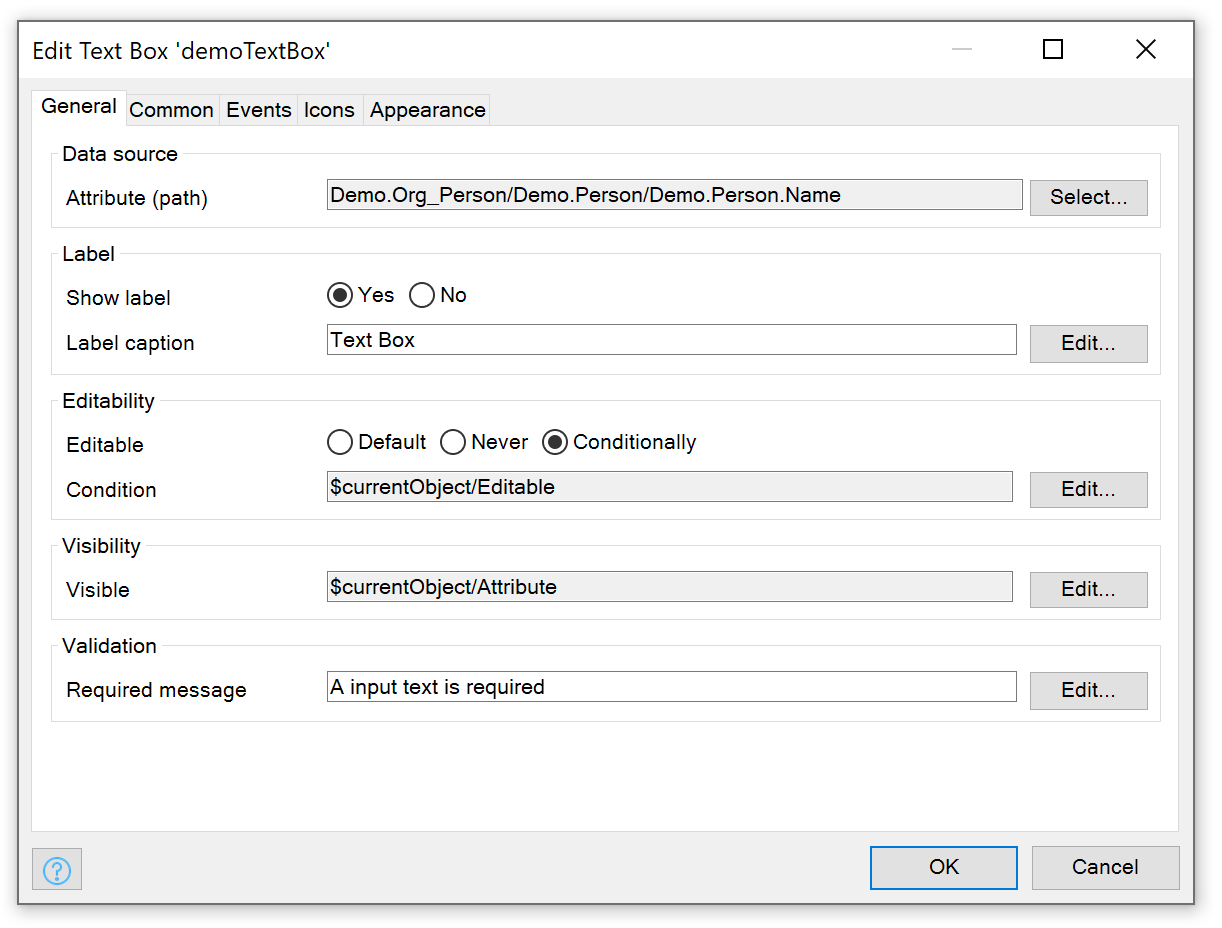
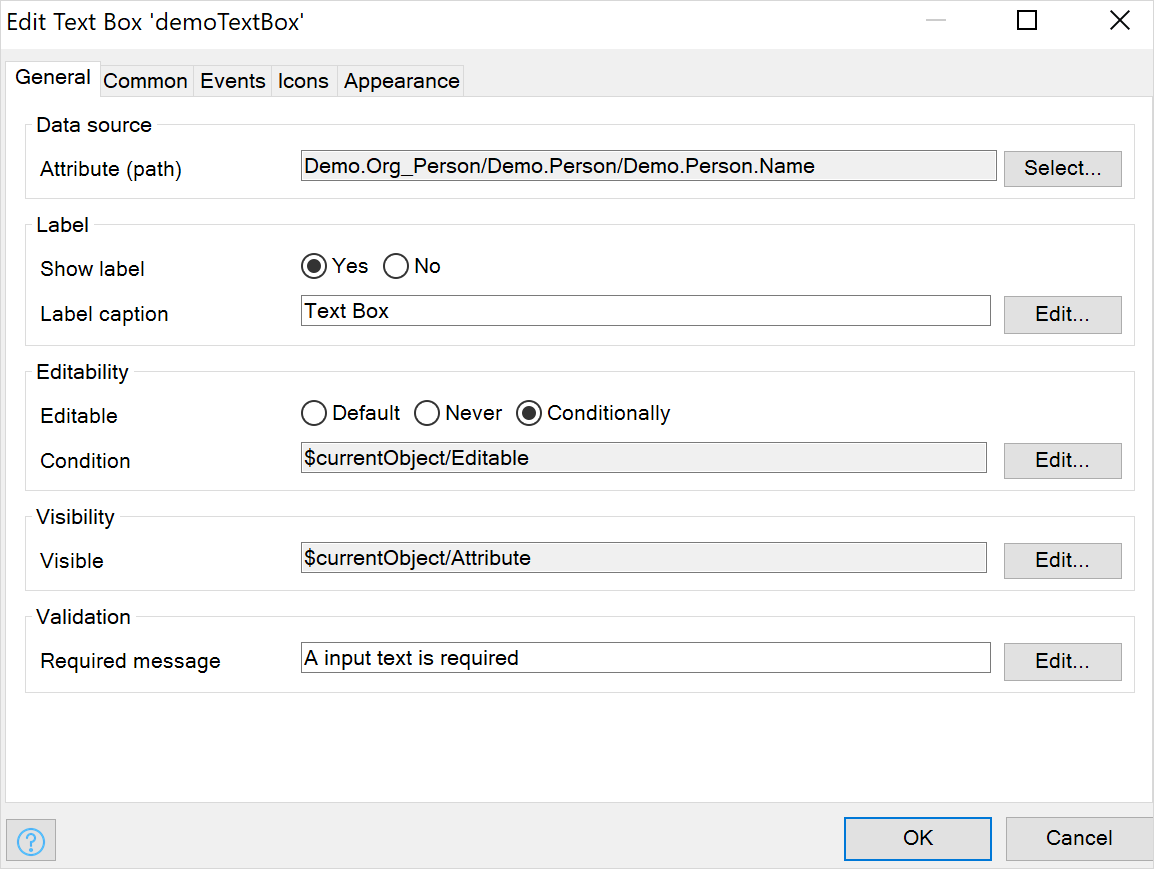
Fix image formatting

Changed region(s): [[0.0, 0.0, 1.0, 1.0], [0.2496, 0.4661, 0.5927, 0.5593], [0.2496, 0.5903, 0.8111, 0.6525]]

diff --git a/content/howto/extensibility/create-a-pluggable-widget-two.md b/content/howto/extensibility/create-a-pluggable-widget-two.md
@@ -601,6 +601,8 @@ To apply this knowledge, reorganize the `properties` section in *TextBox.xml* to
 </properties>
 ```
 
+Your code alterations will produce the following result:
+
 	{{% image_container width="500" %}}![property dialog Studio Pro](attachments/pluggable-part-two/property-grouping-studio-pro.png){{% /image_container %}}
 
 ## 4 Read More
